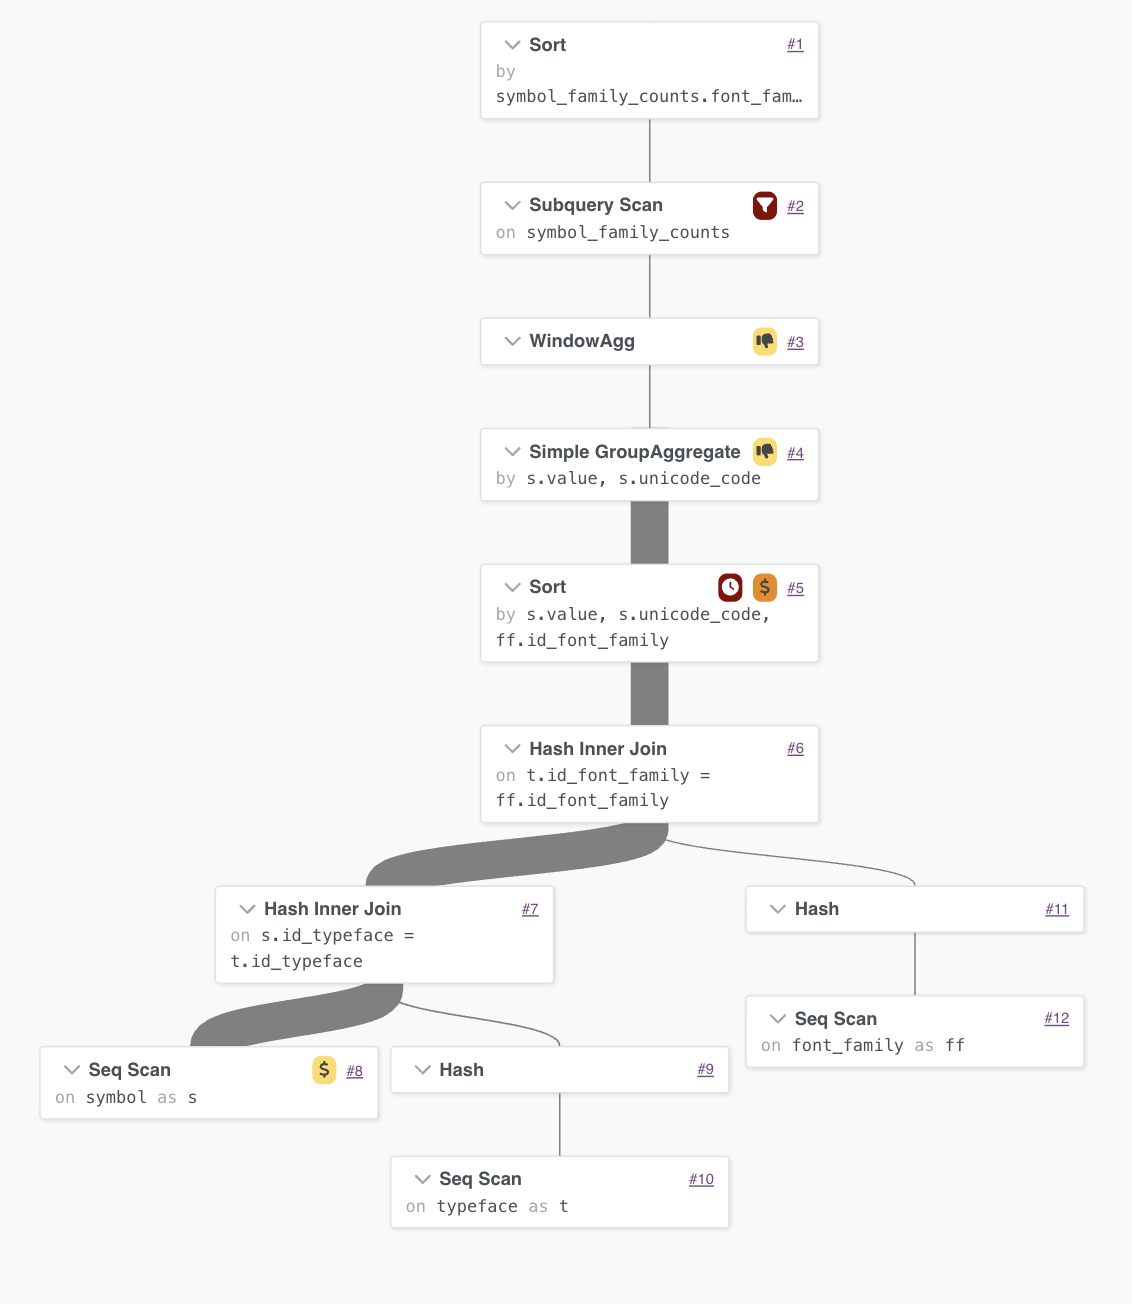
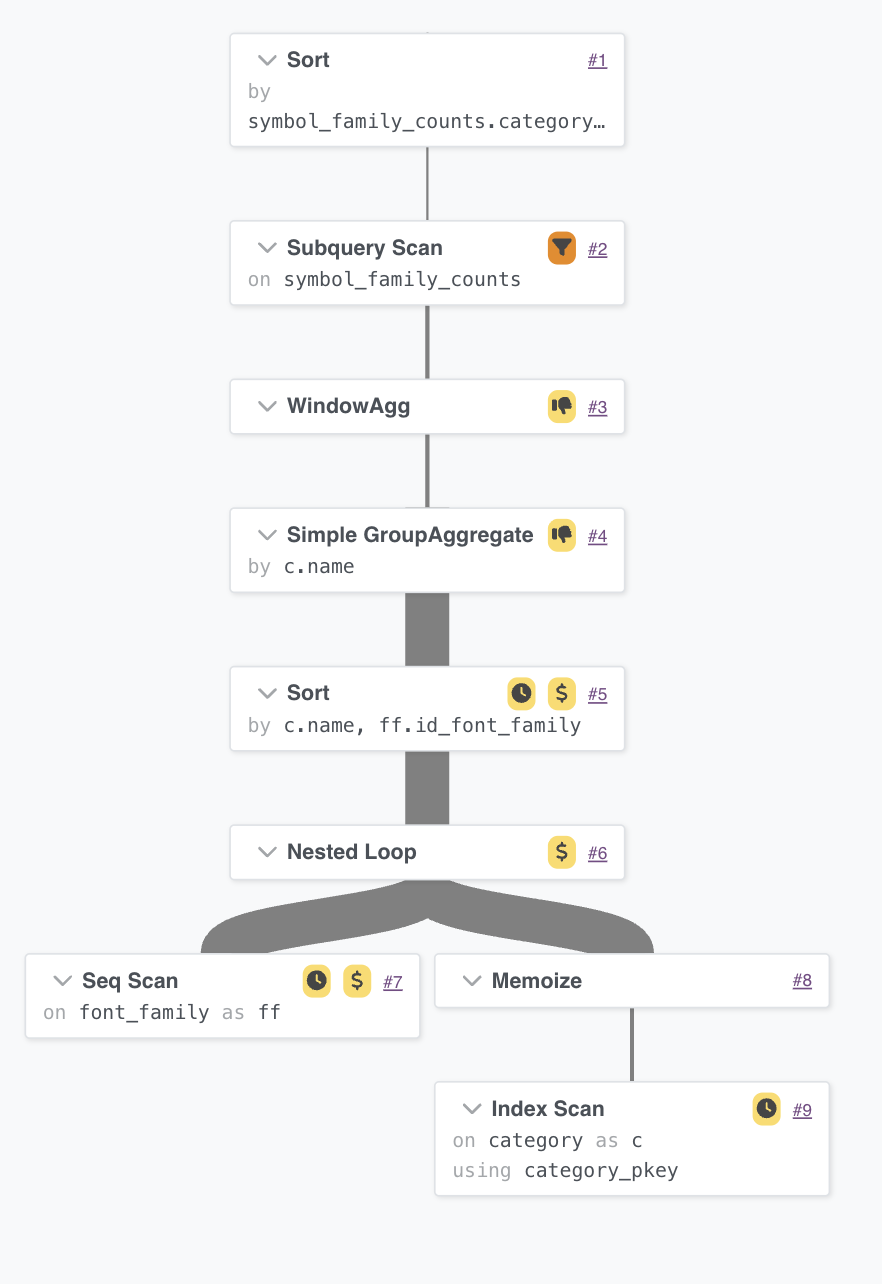
[refactor]: simplify screenshot figure paths and add new queries screenshots

diff --git a/report/tex/sections/программирование/программирование.tex b/report/tex/sections/программирование/программирование.tex
@@ -80,16 +80,16 @@ R_1 &= \pi_{T.id,T.name}
 \end{aligned}
 \]
 
-Текст запроса~1 приведён в листинге~\ref{lst:query-01}, результат выполнения показан на рисунке~\ref{fig:img/query-01-result.png}, схема плана выполнения --- на рисунке~\ref{fig:img/query-01-plan.png}.
+Текст запроса~1 приведён в листинге~\ref{lst:query-01}, результат выполнения показан на рисунке~\ref{fig:query-01-result}, схема плана выполнения --- на рисунке~\ref{fig:query-01-plan}.
 
 \captionof{listing}{Запрос 1}
 \label{lst:query-01}
 \vspace{-10pt}
 \inputminted[linenos, numbersep=10pt, firstnumber=1, fontsize=\small]{sql}{../src/queries/query_01.sql}
 
-\screenshot[0.65]{img/query-01-result.png}{Результат выполнения запроса 1}
+\screenshot[fig:query-01-result][0.65]{query-01-result.png}{Результат выполнения запроса 1}
 
-\screenshot[0.95]{img/query-01-plan.png}{План выполнения запроса 1}
+\screenshot[fig:query-01-plan][0.95]{query-01-plan.png}{План выполнения запроса 1}
 
 В результате выполнения запроса возвращаются начертания выбранной категории, в которых найден заданный символ для того же языка, что и у исходного начертания. Соединения в запросе последовательно связывают начертания с гарнитурами, категориями и символами, а затем сравнивают найденные символы с набором символов исходного начертания.
 
@@ -106,16 +106,16 @@ R_2 =
 \right)
 \]
 
-Текст запроса~2 приведён в листинге~\ref{lst:query-02}, результат выполнения показан на рисунке~\ref{fig:img/query-02-result.png}, схема плана выполнения --- на рисунке~\ref{fig:img/query-02-plan.png}.
+Текст запроса~2 приведён в листинге~\ref{lst:query-02}, результат выполнения показан на рисунке~\ref{fig:query-02-result}, схема плана выполнения --- на рисунке~\ref{fig:query-02-plan}.
 
 \captionof{listing}{Запрос 2}
 \label{lst:query-02}
 \vspace{-10pt}
 \inputminted[linenos, numbersep=10pt, firstnumber=1, fontsize=\small]{sql}{../src/queries/query_02.sql}
 
-\screenshot[0.55]{img/query-02-result.png}{Результат выполнения запроса 2}
+\screenshot[fig:query-02-result][0.55]{query-02-result.png}{Результат выполнения запроса 2}
 
-\screenshot[0.95]{img/query-02-plan.png}{План выполнения запроса 2}
+\screenshot[fig:query-02-plan][0.95]{query-02-plan.png}{План выполнения запроса 2}
 
 Результат запроса содержит одно агрегированное значение --- количество различных языков, для которых одновременно выполняются условия по формату начертания и категории гарнитуры. Для исключения повторов используется подсчёт различных идентификаторов языков.
 
@@ -129,18 +129,23 @@ R_3 =
 (F \underset{L}{\bowtie} T \underset{L}{\bowtie} S)
 \]
 
-Текст запроса~3 приведён в листинге~\ref{lst:query-03}, результат выполнения показан на рисунке~\ref{fig:img/query-03-result.png}, гистограмма по полученным данным --- на рисунке~\ref{fig:histograms/query-03-histogram.png}, схема плана выполнения --- на рисунке~\ref{fig:img/query-03-plan.png}.
+Текст запроса~3 приведён в листинге~\ref{lst:query-03}, результат выполнения показан на рисунке~\ref{fig:query-03-result}, гистограмма по полученным данным --- на рисунке~\ref{fig:query-03-histogram}, схема плана выполнения --- на рисунке~\ref{fig:query-03-plan}.
 
 \captionof{listing}{Запрос 3}
 \label{lst:query-03}
 \vspace{-10pt}
 \inputminted[linenos, numbersep=10pt, firstnumber=1, fontsize=\small]{sql}{../src/queries/query_03.sql}
 
-\screenshot[0.75]{img/query-03-result.png}{Результат выполнения запроса 3}
+\screenshot[fig:query-03-result][0.75]{query-03-result.png}{Результат выполнения запроса 3}
 
-\screenshot[0.95]{histograms/query-03-histogram.png}{Гистограмма по результатам запроса 3}
+\begin{figure}[H]
+    \centering
+    \includegraphics[width=0.95\textwidth]{histograms/query-03-histogram.png}
+    \caption{Гистограмма по результатам запроса 3}
+    \label{fig:query-03-histogram}
+\end{figure}
 
-\screenshot[0.75]{img/query-03-plan.png}{План выполнения запроса 3}
+\screenshot[fig:query-03-plan][0.75]{query-03-plan.png}{План выполнения запроса 3}
 
 Гистограмма показывает распределение числа начертаний и символов по форматам. По результатам видно, что наибольшее число записей связано с форматом \mintinline{text}{TrueType}, а остальные форматы имеют меньшие, но сопоставимые значения.
 
@@ -156,16 +161,21 @@ R_4 &= \gamma_{symbol\_count;\ \operatorname{count}(T.id) \rightarrow typeface\_
 \end{aligned}
 \]
 
-Текст запроса~4 приведён в листинге~\ref{lst:query-04}, гистограмма по полученным данным показана на рисунке~\ref{fig:histograms/query-04-histogram.png}, схема плана выполнения --- на рисунке~\ref{fig:img/query-04-plan.png}.
+Текст запроса~4 приведён в листинге~\ref{lst:query-04}, гистограмма по полученным данным показана на рисунке~\ref{fig:query-04-histogram}, схема плана выполнения --- на рисунке~\ref{fig:query-04-plan}.
 
 \captionof{listing}{Запрос 4}
 \label{lst:query-04}
 \vspace{-10pt}
 \inputminted[linenos, numbersep=10pt, firstnumber=1, fontsize=\small]{sql}{../src/queries/query_04.sql}
 
-\screenshot[0.95]{histograms/query-04-histogram.png}{Гистограмма по результатам запроса 4}
+\begin{figure}[H]
+    \centering
+    \includegraphics[width=0.95\textwidth]{histograms/query-04-histogram.png}
+    \caption{Гистограмма по результатам запроса 4}
+    \label{fig:query-04-histogram}
+\end{figure}
 
-\screenshot[0.75]{img/query-04-plan.png}{План выполнения запроса 4}
+\screenshot[fig:query-04-plan][0.75]{query-04-plan.png}{План выполнения запроса 4}
 
 Результат запроса показывает, сколько начертаний имеют одинаковое количество символов. Сначала для каждого начертания вычисляется число связанных символов, после чего выполняется повторная группировка по этому числу.
 
@@ -182,29 +192,15 @@ R_5 &= \sigma_{\substack{font\_family\_count=\max(Q.font\_family\_count)\\
 \end{aligned}
 \]
 
-Текст запроса~5 приведён в листинге~\ref{lst:query-05}, результат выполнения показан на рисунке~\ref{fig:query-05-result}, схема плана выполнения --- на рисунке~\ref{fig:img/query-05-plan.png}.
+Текст запроса~5 приведён в листинге~\ref{lst:query-05}, результат выполнения показан на рисунке~\ref{fig:query-05-result}, схема плана выполнения --- на рисунке~\ref{fig:query-05-plan}.
 
 \captionof{listing}{Запрос 5}
 \label{lst:query-05}
 \vspace{-10pt}
 \inputminted[linenos, numbersep=10pt, firstnumber=1, fontsize=\small]{sql}{../src/queries/query_05.sql}
 
-\begin{figure}[H]
-    \centering
-    \begin{minipage}{0.48\textwidth}
-        \centering
-        \includegraphics[width=\textwidth]{img/query-05-result-left.png}
-    \end{minipage}
-    \hfill
-    \begin{minipage}{0.48\textwidth}
-        \centering
-        \includegraphics[width=\textwidth]{img/query-05-result-right.png}
-    \end{minipage}
-    \caption{Результат выполнения запроса 5}
-    \label{fig:query-05-result}
-\end{figure}
-
-\screenshot[0.75]{img/query-05-plan.png}{План выполнения запроса 5}
+\screenshot[fig:query-05-result][0.75]{query-05-result.png}{Результат выполнения запроса 5}
+\screenshot[fig:query-05-plan][0.75]{query-05-plan.png}{План выполнения запроса 5}
 
 В результате выводятся символы с минимальным и максимальным числом поддерживающих гарнитур. Запрос не вводит отдельный признак минимума или максимума: граничные группы различаются по значению столбца \mintinline{text}{font_family_count}.
 
@@ -218,16 +214,16 @@ R_6 =
 \pi_{L.id,L.name}\left(\sigma_{W.name=A}(L \bowtie S \bowtie T \bowtie W)\right)
 \]
 
-Текст запроса~6 приведён в листинге~\ref{lst:query-06}, результат выполнения показан на рисунке~\ref{fig:img/query-06-result.png}, схема плана выполнения --- на рисунке~\ref{fig:img/query-06-plan.png}.
+Текст запроса~6 приведён в листинге~\ref{lst:query-06}, результат выполнения показан на рисунке~\ref{fig:query-06-result}, схема плана выполнения --- на рисунке~\ref{fig:query-06-plan}.
 
 \captionof{listing}{Запрос 6}
 \label{lst:query-06}
 \vspace{-10pt}
 \inputminted[linenos, numbersep=10pt, firstnumber=1, fontsize=\small]{sql}{../src/queries/query_06.sql}
 
-\screenshot[0.6]{img/query-06-result.png}{Результат выполнения запроса 6}
+\screenshot[fig:query-06-result][0.6]{query-06-result.png}{Результат выполнения запроса 6}
 
-\screenshot[0.75]{img/query-06-plan.png}{План выполнения запроса 6}
+\screenshot[fig:query-06-plan][0.75]{query-06-plan.png}{План выполнения запроса 6}
 
 Пустой результат связан с особенностью генерации тестовых данных: словарь насыщенностей заполняется полностью, всеми допустимыми значениями. Поэтому в базе данных нет языка, для которого отсутствуют начертания с заданной насыщенностью. Проверка выполняется через условие \mintinline{sql}{NOT EXISTS}: язык попадает в результат только если соответствующая связанная запись отсутствует.
 
@@ -244,16 +240,16 @@ R_7 &= \sigma_{typeface\_count>B}(Q).
 \end{aligned}
 \]
 
-Текст запроса~7 приведён в листинге~\ref{lst:query-07}, результат выполнения показан на рисунке~\ref{fig:img/query-07-result.png}, схема плана выполнения --- на рисунке~\ref{fig:img/query-07-plan.png}.
+Текст запроса~7 приведён в листинге~\ref{lst:query-07}, результат выполнения показан на рисунке~\ref{fig:query-07-result}, схема плана выполнения --- на рисунке~\ref{fig:query-07-plan}.
 
 \captionof{listing}{Запрос 7}
 \label{lst:query-07}
 \vspace{-10pt}
 \inputminted[linenos, numbersep=10pt, firstnumber=1, fontsize=\small]{sql}{../src/queries/query_07.sql}
 
-\screenshot[0.6]{img/query-07-result.png}{Результат выполнения запроса 7}
+\screenshot[fig:query-07-result][0.6]{query-07-result.png}{Результат выполнения запроса 7}
 
-\screenshot[0.95]{img/query-07-plan.png}{План выполнения запроса 7}
+\screenshot[fig:query-07-plan][0.95]{query-07-plan.png}{План выполнения запроса 7}
 
 В качестве базового формата в запросе выбран \mintinline{text}{WOFF2}. Результат показывает форматы, в которых начертаний больше, чем в \mintinline{text}{WOFF2}: \mintinline{text}{TrueType}, \mintinline{text}{OpenType} и \mintinline{text}{WOFF}. Запрос сначала вычисляет количество начертаний для каждого формата, затем сравнивает эти значения с количеством начертаний у формата $A$.
 
@@ -269,16 +265,21 @@ R_8 &= \gamma_{C.id,C.name,L.id,L.name;\ \operatorname{count}(S.id)}(Q).
 \end{aligned}
 \]
 
-Текст запроса~8 приведён в листинге~\ref{lst:query-08}, гистограмма по полученным данным показана на рисунке~\ref{fig:histograms/query-08-histogram.png}, схема плана выполнения --- на рисунке~\ref{fig:img/query-08-plan.png}.
+Текст запроса~8 приведён в листинге~\ref{lst:query-08}, гистограмма по полученным данным показана на рисунке~\ref{fig:query-08-histogram}, схема плана выполнения --- на рисунке~\ref{fig:query-08-plan}.
 
 \captionof{listing}{Запрос 8}
 \label{lst:query-08}
 \vspace{-10pt}
 \inputminted[linenos, numbersep=10pt, firstnumber=1, fontsize=\small]{sql}{../src/queries/query_08.sql}
 
-\screenshot[1]{histograms/query-08-histogram.png}{Гистограмма по результатам запроса 8}
+\begin{figure}[H]
+    \centering
+    \includegraphics[width=\textwidth]{histograms/query-08-histogram.png}
+    \caption{Гистограмма по результатам запроса 8}
+    \label{fig:query-08-histogram}
+\end{figure}
 
-\screenshot[0.75]{img/query-08-plan.png}{План выполнения запроса 8}
+\screenshot[fig:query-08-plan][0.75]{query-08-plan.png}{План выполнения запроса 8}
 
 Гистограмма отражает число символов для пар «категория --- язык» по первым десяти языкам. Использование декартова произведения категорий и выбранных языков позволяет вывести все пары, а внешние соединения сохраняют строки даже при отсутствии связанных символов.
 
@@ -297,15 +298,15 @@ R_9 =
 \end{aligned}
 \]
 
-Текст запроса~9 приведён в листинге~\ref{lst:query-09}, результат выполнения показан на рисунке~\ref{fig:img/query-09-result.png}, схема плана выполнения --- на рисунке~\ref{fig:img/query-09-plan.png}.
+Текст запроса~9 приведён в листинге~\ref{lst:query-09}, результат выполнения показан на рисунке~\ref{fig:query-09-result}, схема плана выполнения --- на рисунке~\ref{fig:query-09-plan}.
 
 \captionof{listing}{Запрос 9}
 \label{lst:query-09}
 \vspace{-10pt}
 \inputminted[linenos, numbersep=10pt, firstnumber=1, fontsize=\small]{sql}{../src/queries/query_09.sql}
 
-\screenshot[0.75]{img/query-09-result.png}{Результат выполнения запроса 9}
+\screenshot[fig:query-09-result][0.75]{query-09-result.png}{Результат выполнения запроса 9}
 
-\screenshot[0.95]{img/query-09-plan.png}{План выполнения запроса 9}
+\screenshot[fig:query-09-plan][0.95]{query-09-plan.png}{План выполнения запроса 9}
 
 Запрос изменяет формат выбранного начертания в рамках транзакции и возвращает сведения о найденной записи: идентификатор начертания, его название, гарнитуру, старый и новый формат, а также статус операции. Для демонстрационного запуска используется откат транзакции, поэтому после проверки состояние базы данных не изменяется.

diff --git a/report/tex/lib/macroses.tex b/report/tex/lib/macroses.tex
@@ -1,9 +1,14 @@
-\newcommand{\screenshot}[3][0.9]{
+\NewDocumentCommand{\screenshot}{O{} O{0.9} m m}{
     \begin{figure}[H]
         \centering
-        \includegraphics[width=#1\textwidth]{#2}
-        \caption{#3}
-        \label{fig:#2}
+        \includegraphics[width=#2\textwidth]{img/#3}
+        \caption{#4}
+        \def\screenshotLabel{#1}
+        \ifx\screenshotLabel\empty
+            \label{fig:#3}
+        \else
+            \label{#1}
+        \fi
     \end{figure}
 }
 